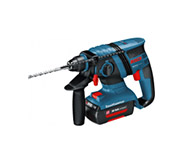
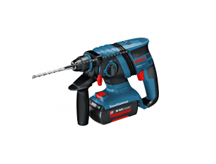
Подогнала картинки в каталоге под макет

Changed region(s): [[0.1359, 0.2134, 0.8424, 0.7927]]

diff --git a/catalog.html b/catalog.html
@@ -200,7 +200,7 @@
                   </div>
                   <a class="product-picture" href="#">
                     <div class="image">
-                      <img src="img/bfg6000.jpg" width="184" height="164" alt="Перфоратор BOSCH BFG 6000">
+                      <img src="img/bfg6000.jpg" width="216" height="165" alt="Перфоратор BOSCH BFG 6000">
                     </div>
                     <h3>
                       Перфоратор BOSCH BFG 6000
@@ -219,7 +219,7 @@
                   </div>
                   <a class="product-picture" href="#">
                     <div class="image">
-                      <img src="img/bfg2000.jpg" width="184" height="164" alt="Перфоратор BOSCH BFG 2000">
+                      <img src="img/bfg2000.jpg" width="216" height="164" alt="Перфоратор BOSCH BFG 2000">
                     </div>
                     <h3>
                       Перфоратор BOSCH BFG 2000
@@ -256,7 +256,7 @@
                   </div>
                   <a class="product-picture" href="#">
                     <div class="image">
-                      <img src="img/bfg6000.jpg" width="184" height="164" alt="Перфоратор BOSCH BFG 6000">
+                      <img src="img/bfg6000.jpg" width="216" height="165" alt="Перфоратор BOSCH BFG 6000">
                     </div>
                     <h3>
                       Перфоратор BOSCH BFG 6000
@@ -274,7 +274,7 @@
                   </div>
                   <a class="product-picture" href="#">
                     <div class="image">
-                      <img src="img/bfg2000.jpg" width="184" height="164" alt="Перфоратор BOSCH BFG 2000">
+                      <img src="img/bfg2000.jpg" width="216" height="164" alt="Перфоратор BOSCH BFG 2000">
                     </div>
                     <h3>
                       Перфоратор BOSCH BFG 2000
@@ -311,7 +311,7 @@
                   </div>
                   <a class="product-picture" href="#">
                     <div class="image">
-                      <img src="img/bfg6000.jpg" width="184" height="164" alt="Перфоратор BOSCH BFG 6000">
+                      <img src="img/bfg6000.jpg" width="216" height="165" alt="Перфоратор BOSCH BFG 6000">
                     </div>
                     <h3>
                       Перфоратор BOSCH BFG 6000
@@ -329,7 +329,7 @@
                   </div>
                   <a class="product-picture" href="#">
                     <div class="image">
-                      <img src="img/bfg2000.jpg" width="184" height="164" alt="Перфоратор BOSCH BFG 2000">
+                      <img src="img/bfg2000.jpg" width="216" height="164" alt="Перфоратор BOSCH BFG 2000">
                     </div>
                     <h3>
                       Перфоратор BOSCH BFG 2000

diff --git a/index.html b/index.html
@@ -162,7 +162,7 @@
                   </div>
                   <a class="product-picture" href="#">
                     <div class="image">
-                      <img src="img/bfg6000.jpg" width="184" height="164" alt="Перфоратор BOSCH BFG 6000">
+                      <img src="img/bfg6000.jpg" width="216" height="165" alt="Перфоратор BOSCH BFG 6000">
                     </div>
                     <h3>
                       Перфоратор BOSCH BFG 6000
@@ -181,7 +181,7 @@
                   </div>
                   <a class="product-picture" href="#">
                     <div class="image">
-                      <img src="img/bfg2000.jpg" width="184" height="164" alt="Перфоратор BOSCH BFG 2000">
+                      <img src="img/bfg2000.jpg" width="216" height="164" alt="Перфоратор BOSCH BFG 2000">
                     </div>
                     <h3>
                       Перфоратор BOSCH BFG 2000
